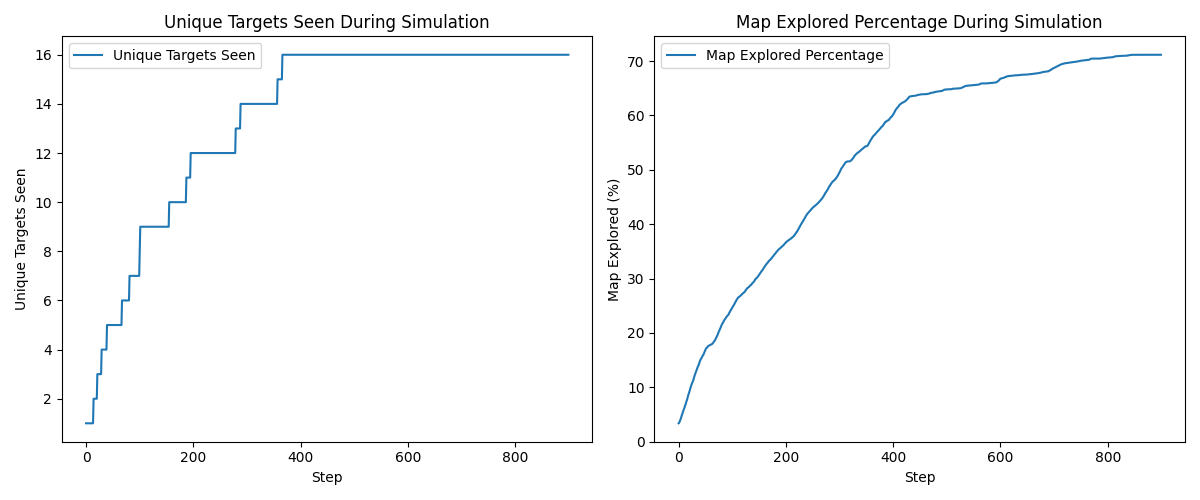
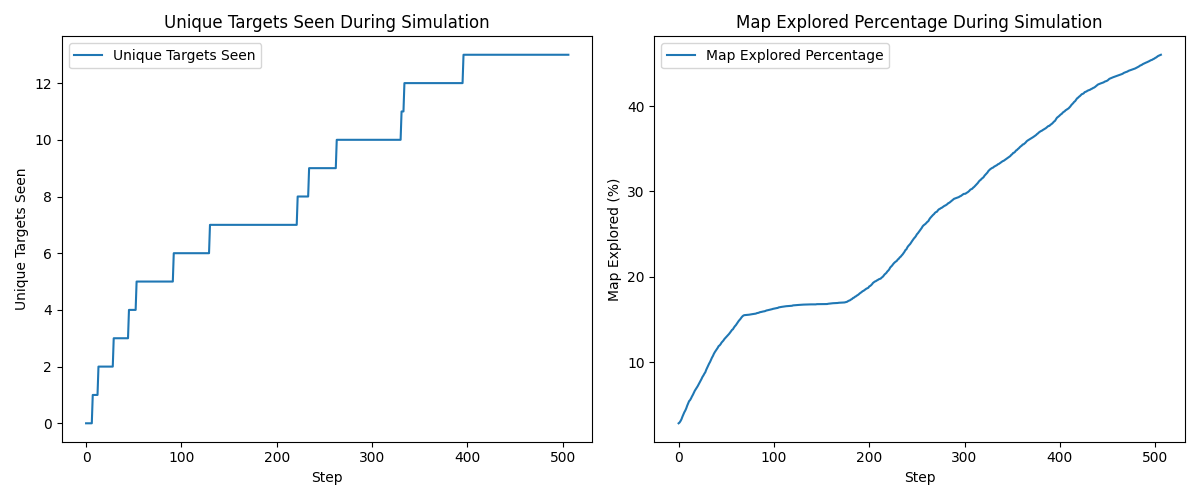
pixel velocity

diff --git a/continuous_agent.py b/continuous_agent.py
@@ -3,16 +3,14 @@ from gymnasium import spaces
 from base_agent import BaseAgent
 
 class ContinuousAgent(BaseAgent):
-    def __init__(self, xs, ys, map_matrix, randomiser, real_world_pixle_scale, obs_range=3, n_layers=4, seed=10, flatten=False):
+    def __init__(self, xs, ys, map_matrix, randomiser, obs_range=3, n_layers=4, seed=10, flatten=False):
         self.random_state = randomiser
         self.xs = xs
         self.ys = ys
-        self.real_world_pixle_scale = real_world_pixle_scale
         self.current_pos = np.zeros(2, dtype=np.float32)
         self.last_pos = np.zeros(2, dtype=np.float32)
         self.temp_pos = np.zeros(2, dtype=np.float32)
         self.velocity = np.zeros(2, dtype=np.float32)  # Add velocity
-        self.real_velocity = np.zeros(2, dtype=np.float32)
         self.map_matrix = map_matrix
         self.terminal = False
         self._obs_range = obs_range
@@ -36,29 +34,30 @@ class ContinuousAgent(BaseAgent):
         self.stuck_steps = 0
         self.max_stuck_steps = 40
         self.communication_timer = 30
+        self.max_velocity = 2
 
     @property
     def observation_space(self):
         return spaces.Dict({
             "map": spaces.Box(low=-20, high=1, shape=self._obs_shape, dtype=np.float32),
-            "velocity": spaces.Box(low=-30.0, high=30.0, shape=(2,), dtype=np.float32),
+            "velocity": spaces.Box(low=-8.0, high=8.0, shape=(2,), dtype=np.float32),
             "goal": spaces.Box(low=-2000, high=2000, shape=(2,), dtype=np.float32),
         })
     @property
     def action_space(self):
-        return spaces.Box(low=-5, high=5, shape=(2,), dtype=np.float32)
+        return spaces.Box(low=-0.5, high=0.5, shape=(2,), dtype=np.float32)
 
     def step(self, action):
         #print("action", action)
         # Convert action to acceleration (assuming action is in range [-1, 1] and maps to [-1, 1] km/h)
         acceleration = action #acceleration = action * 2.0
         # Adjust velocity
-        self.real_velocity += acceleration
-        #print(self.velocity)
+        self.velocity += acceleration
+        print(self.velocity)
         # Clamp velocity to the desired range
-        self.real_velocity = np.clip(self.velocity, -30.0, 30.0)  # Adjust as per your requirements
-        self.velocity = self.real_velocity / self.real_world_pixle_scale
+        self.velocity = np.clip(self.velocity, -8.0, 8.0)  # Adjust as per your requirements
         #print(self.velocity)
+
         # Determine the new direction based on the constraints
         # Determine the number of sub-steps based on the current velocity
         speed = np.linalg.norm(self.velocity)
@@ -87,7 +86,7 @@ class ContinuousAgent(BaseAgent):
                     #print(f"Agent stuck for {self.stuck_steps} steps. Resetting velocity.")
                     self.velocity = np.zeros(2)
                     self.stuck_steps = 0 
-                    #print("let free")
+                    print("let free")
                 return self.current_pos
         else:
             self.stuck_steps = 0
@@ -187,8 +186,7 @@ class ContinuousAgent(BaseAgent):
                                 self.local_state[layer, global_x, global_y] = observed_value
 
     def get_next_action(self):
-        # The 5 is based on real world acceleration number
-        action = self.random_state.uniform(5, 5, size=(2,))
+        action = self.random_state.uniform(-0.5, 0.5, size=(2,))
         return action
     
     def set_observation_state(self, observation):

diff --git a/rllib_env.py b/rllib_env.py
@@ -37,7 +37,6 @@ class Environment(MultiAgentEnv):
         self.comm_range = self.config['comm_range']
         self.use_task_allocation = self.config.get('use_task_allocation_with_continuous', False)
         self.using_goals = self.config.get('using_goals', False)
-        self.real_world_pixle_scale = self.config['real_word_pixel_scale']
 
         self.seed_value = self.config.get('seed', None)
         if self.seed_value == "None":
@@ -100,7 +99,7 @@ class Environment(MultiAgentEnv):
     def initialise_agents(self):
         agent_positions = self.config.get('agent_positions')
         self.agents = agent_utils.create_agents(self.num_agents, self.map_matrix, self.obs_range, self.np_random, 
-                                                self.path_processor, self.real_world_pixle_scale, agent_positions, agent_type=self.agent_type, randinit=True)
+                                                self.path_processor, agent_positions, agent_type=self.agent_type, randinit=True)
         self.agent_layer = AgentLayer(self.X, self.Y, self.agents)
         self.agent_name_mapping = dict(zip(self.agents, list(range(self.num_agents))))
 
@@ -125,13 +124,13 @@ class Environment(MultiAgentEnv):
         elif self.agent_type == 'task_allocation':
             self.action_space = spaces.Discrete((2 * self.agents[0].max_distance + 1) ** 2)
         else:
-            self.action_space = spaces.Box(low=5, high=5, shape=(2,), dtype=np.float32)
+            self.action_space = spaces.Box(low=-0.5, high=0.5, shape=(2,), dtype=np.float32)
 
     def define_observation_space(self):
         if self.agent_type == 'continuous':
             self.observation_space = spaces.Dict({
                 "map": spaces.Box(low=-20, high=1, shape=(4, self.obs_range, self.obs_range), dtype=np.float32),
-                "velocity": spaces.Box(low=-30.0, high=30.0, shape=(2,), dtype=np.float32),
+                "velocity": spaces.Box(low=-8.0, high=8.0, shape=(2,), dtype=np.float32),
                 "goal": spaces.Box(low=-2000, high=2000, shape=(2,), dtype=np.float32)
         })
         elif self.agent_type == "discrete":
@@ -315,7 +314,7 @@ class Environment(MultiAgentEnv):
             if self.use_task_allocation and agent_id in self.task_goals:
                 agent.set_goal_area(self.task_goals[agent_id])
 
-            if np.linalg.norm(agent.velocity) > 5:
+            if np.linalg.norm(agent.velocity) > 0.2:
                 current_direction = np.arctan2(agent.velocity[1], agent.velocity[0])
                 desired_direction = np.arctan2(action[1], action[0])
                 angle_diff = desired_direction - current_direction

diff --git a/agent_utils.py b/agent_utils.py
@@ -4,7 +4,7 @@ from task_allocation_agent import TaskAllocationAgent
 from target import Target
 import numpy as np
 
-def create_agents(nagents, map_matrix, obs_range, randomiser, path_preprocessor, real_world_pixle_scale, pos_list=None, agent_type='discrete', flatten=False, randinit=False, constraints=None):
+def create_agents(nagents, map_matrix, obs_range, randomiser, path_preprocessor, pos_list=None, agent_type='discrete', flatten=False, randinit=False, constraints=None):
     """Initializes the agents on a map (map_matrix).
 
      -nagents: the number of agents to put on the map
@@ -35,7 +35,7 @@ def create_agents(nagents, map_matrix, obs_range, randomiser, path_preprocessor,
         if agent_type == 'task_allocation':
             agent = agent_class(xs, ys, map_matrix, randomiser, path_preprocessor, obs_range=obs_range, flatten=flatten, max_steps_per_action=15)
         else:
-            agent = agent_class(xs, ys, map_matrix, randomiser, real_world_pixle_scale, obs_range=obs_range, flatten=flatten)
+            agent = agent_class(xs, ys, map_matrix, randomiser, obs_range=obs_range, flatten=flatten)
 
         agent.set_position(xinit, yinit)
         agents.append(agent)

diff --git a/Continuous_controller/reward.py b/Continuous_controller/reward.py
@@ -14,21 +14,17 @@ def calculate_continuous_reward(agent, env):
     if not agent.valid_move:
         reward -= 5
 
-    #Compined velocity and percentage reward
+    #velocity reward - not going to use this - or maybe i should??
     velocity_norm = np.linalg.norm(agent.observation_state["velocity"])
-    max_velocity = 16.0
+    if velocity_norm > 2:
+        #print('here')
+        reward -= 10
+
     percentage_new_information = agent.gains_information() 
-
-    # Large positive reward for new area and under max velocity.
-    # Very small percentage for over max velocity 
-    if velocity_norm <= max_velocity:
-        reward += percentage_new_information*3
+    if percentage_new_information > 0:
+        reward += (percentage_new_information*2)
     else:
-        capped_percentage = max_velocity / velocity_norm
-        reward += percentage_new_information * capped_percentage 
-
-    if percentage_new_information == 0:
-        reward -= 4
+        reward -= 5
 
     obs_half_range = agent._obs_range // 2
     agent_pos = agent.current_position()

diff --git a/test_policies_env.py b/test_policies_env.py
@@ -5,7 +5,7 @@ from rllib_env import Environment
 config_path = '/Users/alexandramartinwallace/Documents/Uni/METR4911/Working/Shared-MARL-Env/config.yaml' 
 checkpoint_dir = '/Users/alexandramartinwallace/Documents/Uni/METR4911/Working/Shared-MARL-Env/custom_ray_results/'
 #checkpoint_dir = '/Users/alexandramartinwallace/Documents/Uni/METR4911/Working/Shared-MARL-Env/outputs/20:09 ray results/custom_ray_results/'
-params_path = '/Users/alexandramartinwallace/ray_results/PPO_custom_multi_agent_env_2024-10-02_13-48-43uw45lard/params.pkl'
+params_path = '/Users/alexandramartinwallace/ray_results/PPO_custom_multi_agent_env_2024-10-04_16-48-23beq1d_at/params.pkl'
     
 env2 = Environment(config_path)
 env2.run_simulation_with_policy(checkpoint_dir=checkpoint_dir, params_path=params_path, max_steps=900)

diff --git a/Continuous_controller/train.py b/Continuous_controller/train.py
@@ -50,10 +50,10 @@ config["callbacks"] = CustomMetricsCallback
 # Update the policies in the config
 num_agents = 5  # Example, adjust based on your environment
 obs_shape = (4, 32) #NEED TO ADJUST TO ENCODED OBSERVATION SPACE
-action_space = spaces.Box(low=-5, high=5, shape=(2,), dtype=np.float32)
+action_space = spaces.Box(low=-0.5, high=0.5, shape=(2,), dtype=np.float32)
 obs_space = spaces.Dict({
     "encoded_map": spaces.Box(low=-np.inf, high=np.inf, shape=obs_shape, dtype=np.float32),
-    "velocity": spaces.Box(low=-30.0, high=30.0, shape=(2,), dtype=np.float32),
+    "velocity": spaces.Box(low=-8.0, high=8.0, shape=(2,), dtype=np.float32),
     "goal": spaces.Box(low=-2000, high=2000, shape=(2,), dtype=np.float32)
 })
 # This is the config for cnetralised training - one policy
